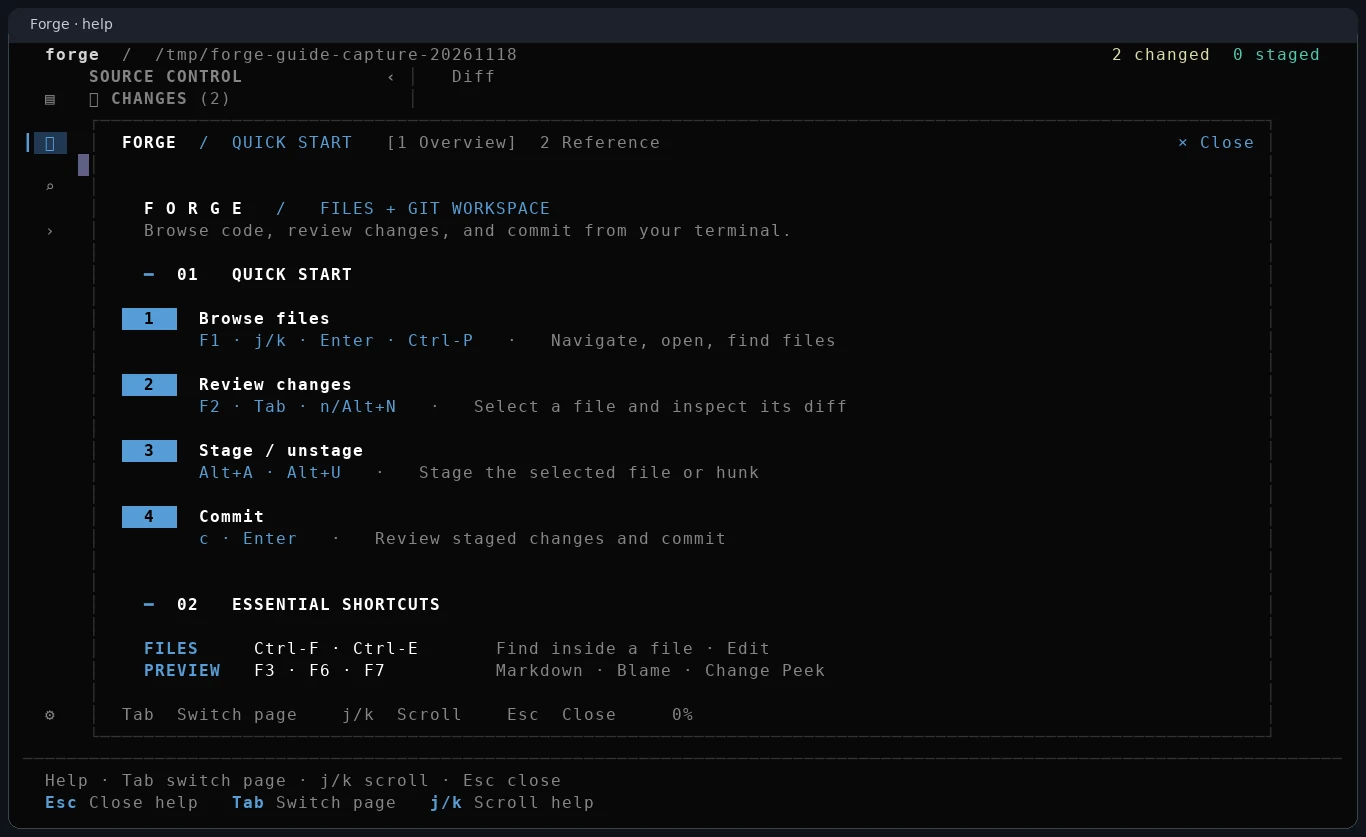
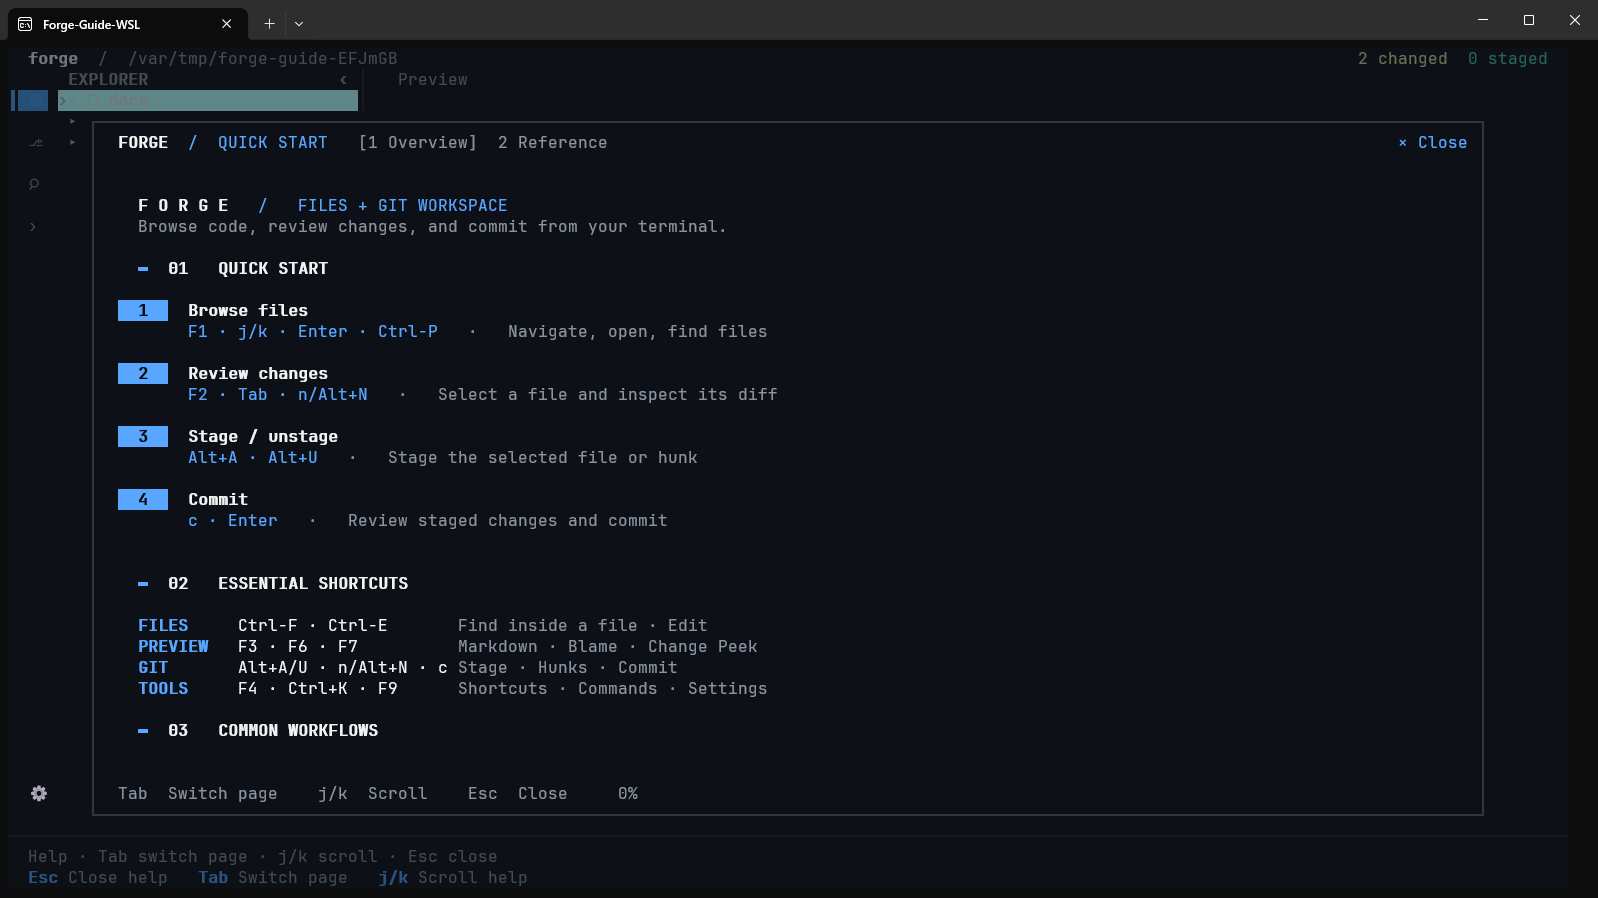
docs: refresh all user guide screenshots with real WSL captures

diff --git a/web/src/styles/landing.css b/web/src/styles/landing.css
@@ -642,7 +642,7 @@
   display: block;
   width: 100%;
   height: auto;
-  aspect-ratio: 1366 / 837;
+  aspect-ratio: 1598 / 898;
 }
 
 .modality-caption {

diff --git a/web/src/content/guide.en.md b/web/src/content/guide.en.md
@@ -130,7 +130,7 @@ When the Shell has focus, **Esc and normal text belong to the Shell**. Use `Ctrl
 
 ## 13. Mouse hover and compact layout
 
-[![Activity Bar hover tooltip showing icon explanation and shortcut](/assets/guide/hover.webp)](/assets/guide/hover.webp "View full-size screenshot")
+[![File-tree context menu showing mouse-accessible file actions](/assets/guide/hover.webp)](/assets/guide/hover.webp "View full-size screenshot")
 
 Activity Bar icons, Terminal controls and Git Diff's `[Open file]` display tooltips on mouse hover. Hover is **presentation-only**: movement must never change active panels or run a command. The sidebar divider can be dragged to resize; scrollbars support quick positioning. Narrow terminals switch to a single-pane-oriented workflow so use `Tab` to alternate list and preview. Built-in Unicode icons work without Nerd Font; optional Nerd or ASCII mode is available.
 

diff --git a/web/src/content/guide.zh.md b/web/src/content/guide.zh.md
@@ -262,7 +262,7 @@ Terminal 有焦点时，普通按键以及 `Esc` 通常先交给 Shell 或 Shell
 
 ## 17. 鼠标、Hover 与窄屏布局
 
-[![Forge Activity Bar 的 Hover 说明与快捷键提示](/assets/guide/hover.webp)](/assets/guide/hover.webp "打开高清截图")
+[![Forge 文件树右键菜单，显示可通过鼠标执行的文件操作](/assets/guide/hover.webp)](/assets/guide/hover.webp "打开高清截图")
 
 鼠标移到 Activity Bar 图标、Terminal 标签栏按钮和 Git Diff 标题栏的 `[Open file]` 时，会弹出统一样式的说明和快捷键提示。**Hover 只显示提示，不会激活面板**；只有明确点击才执行动作。点击和 Hover 复用相同的控件命中区域。
 
